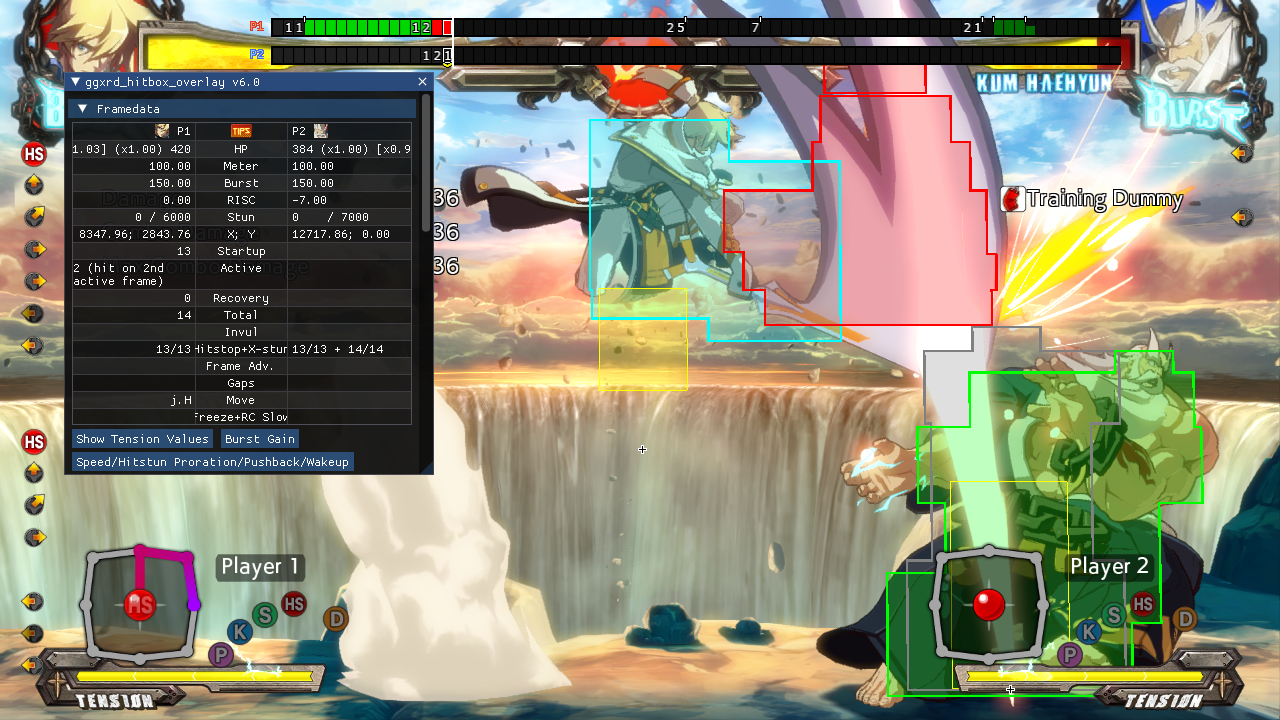
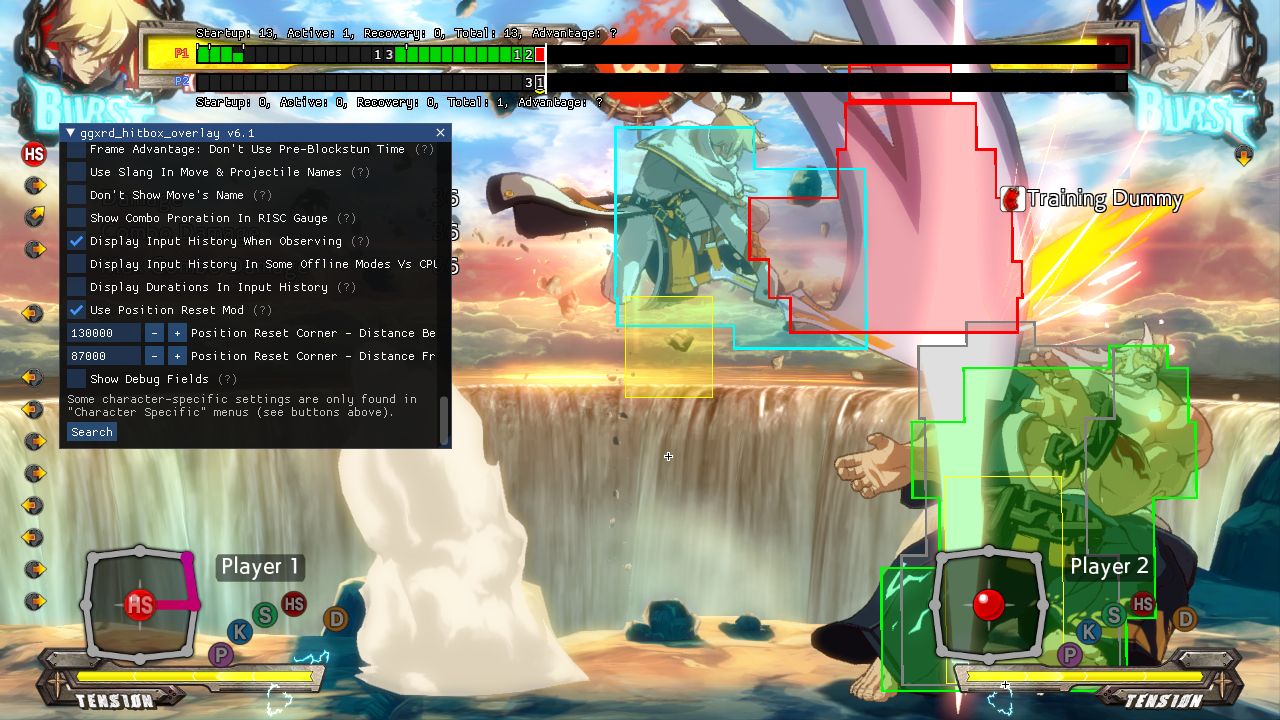
update version and screenshot

diff --git a/ggxrd_hitbox_overlay/Version.h b/ggxrd_hitbox_overlay/Version.h
@@ -1,2 +1,2 @@
 #pragma once
-#define VERSION "6.0"
+#define VERSION "6.1"
